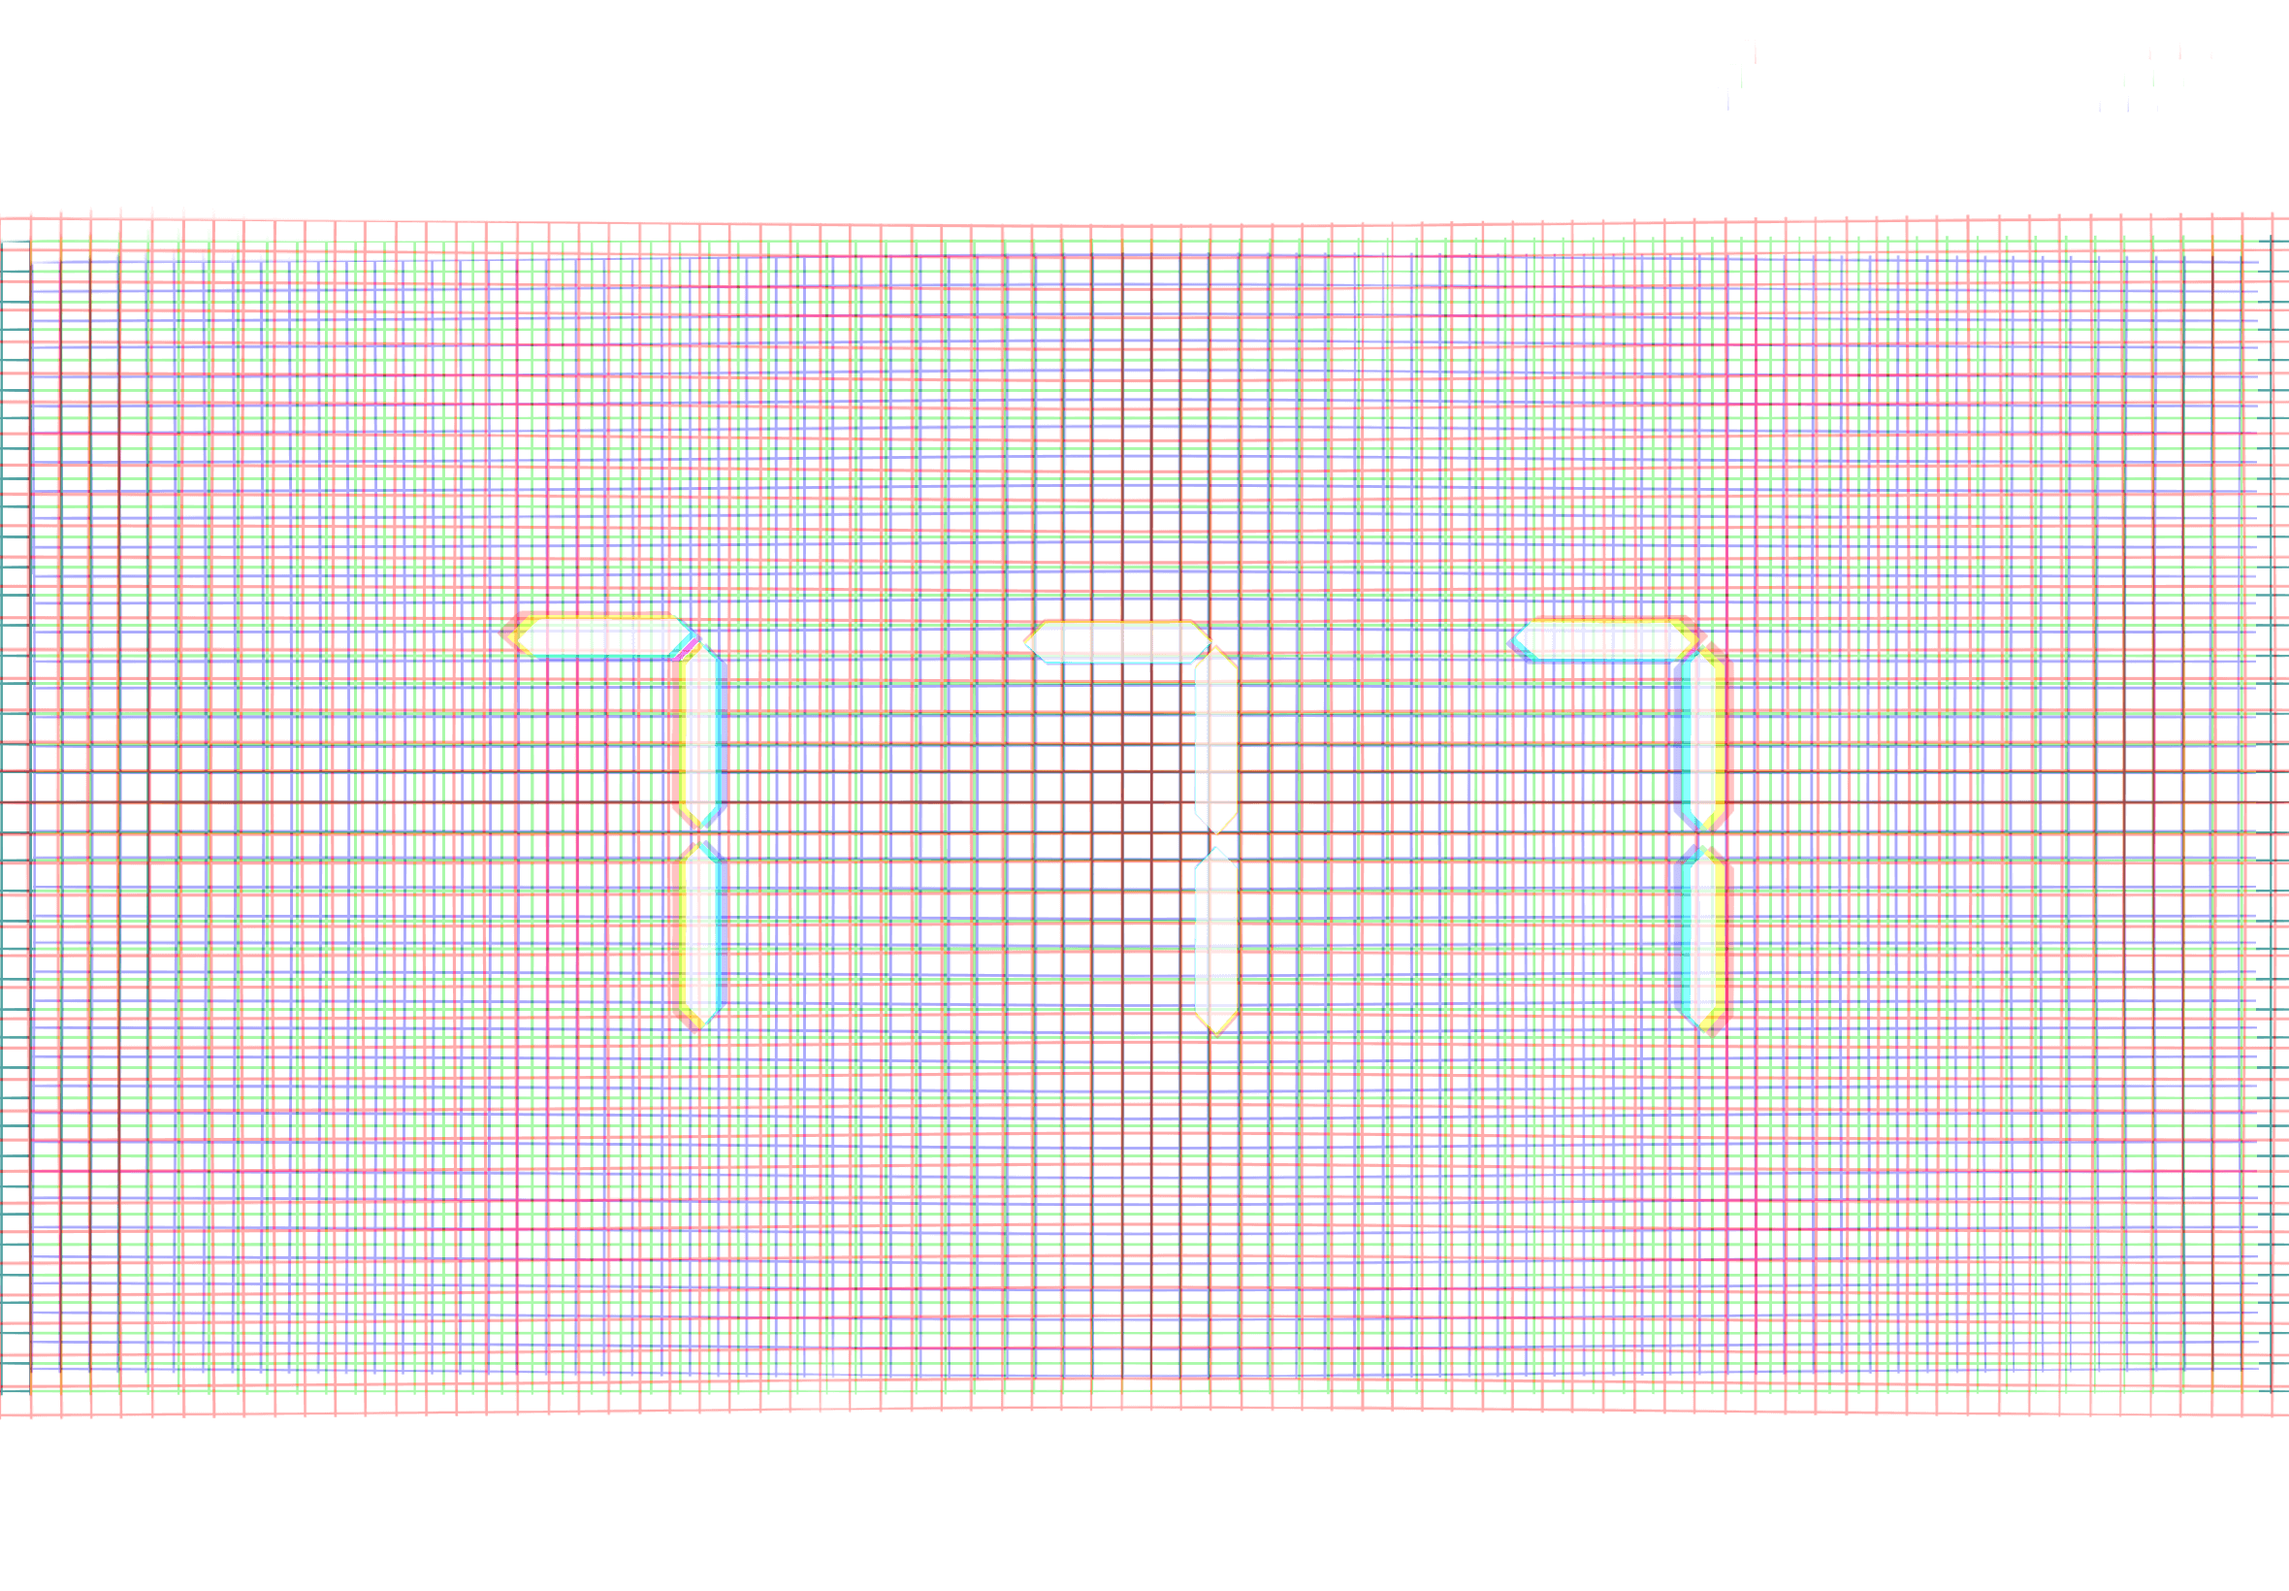
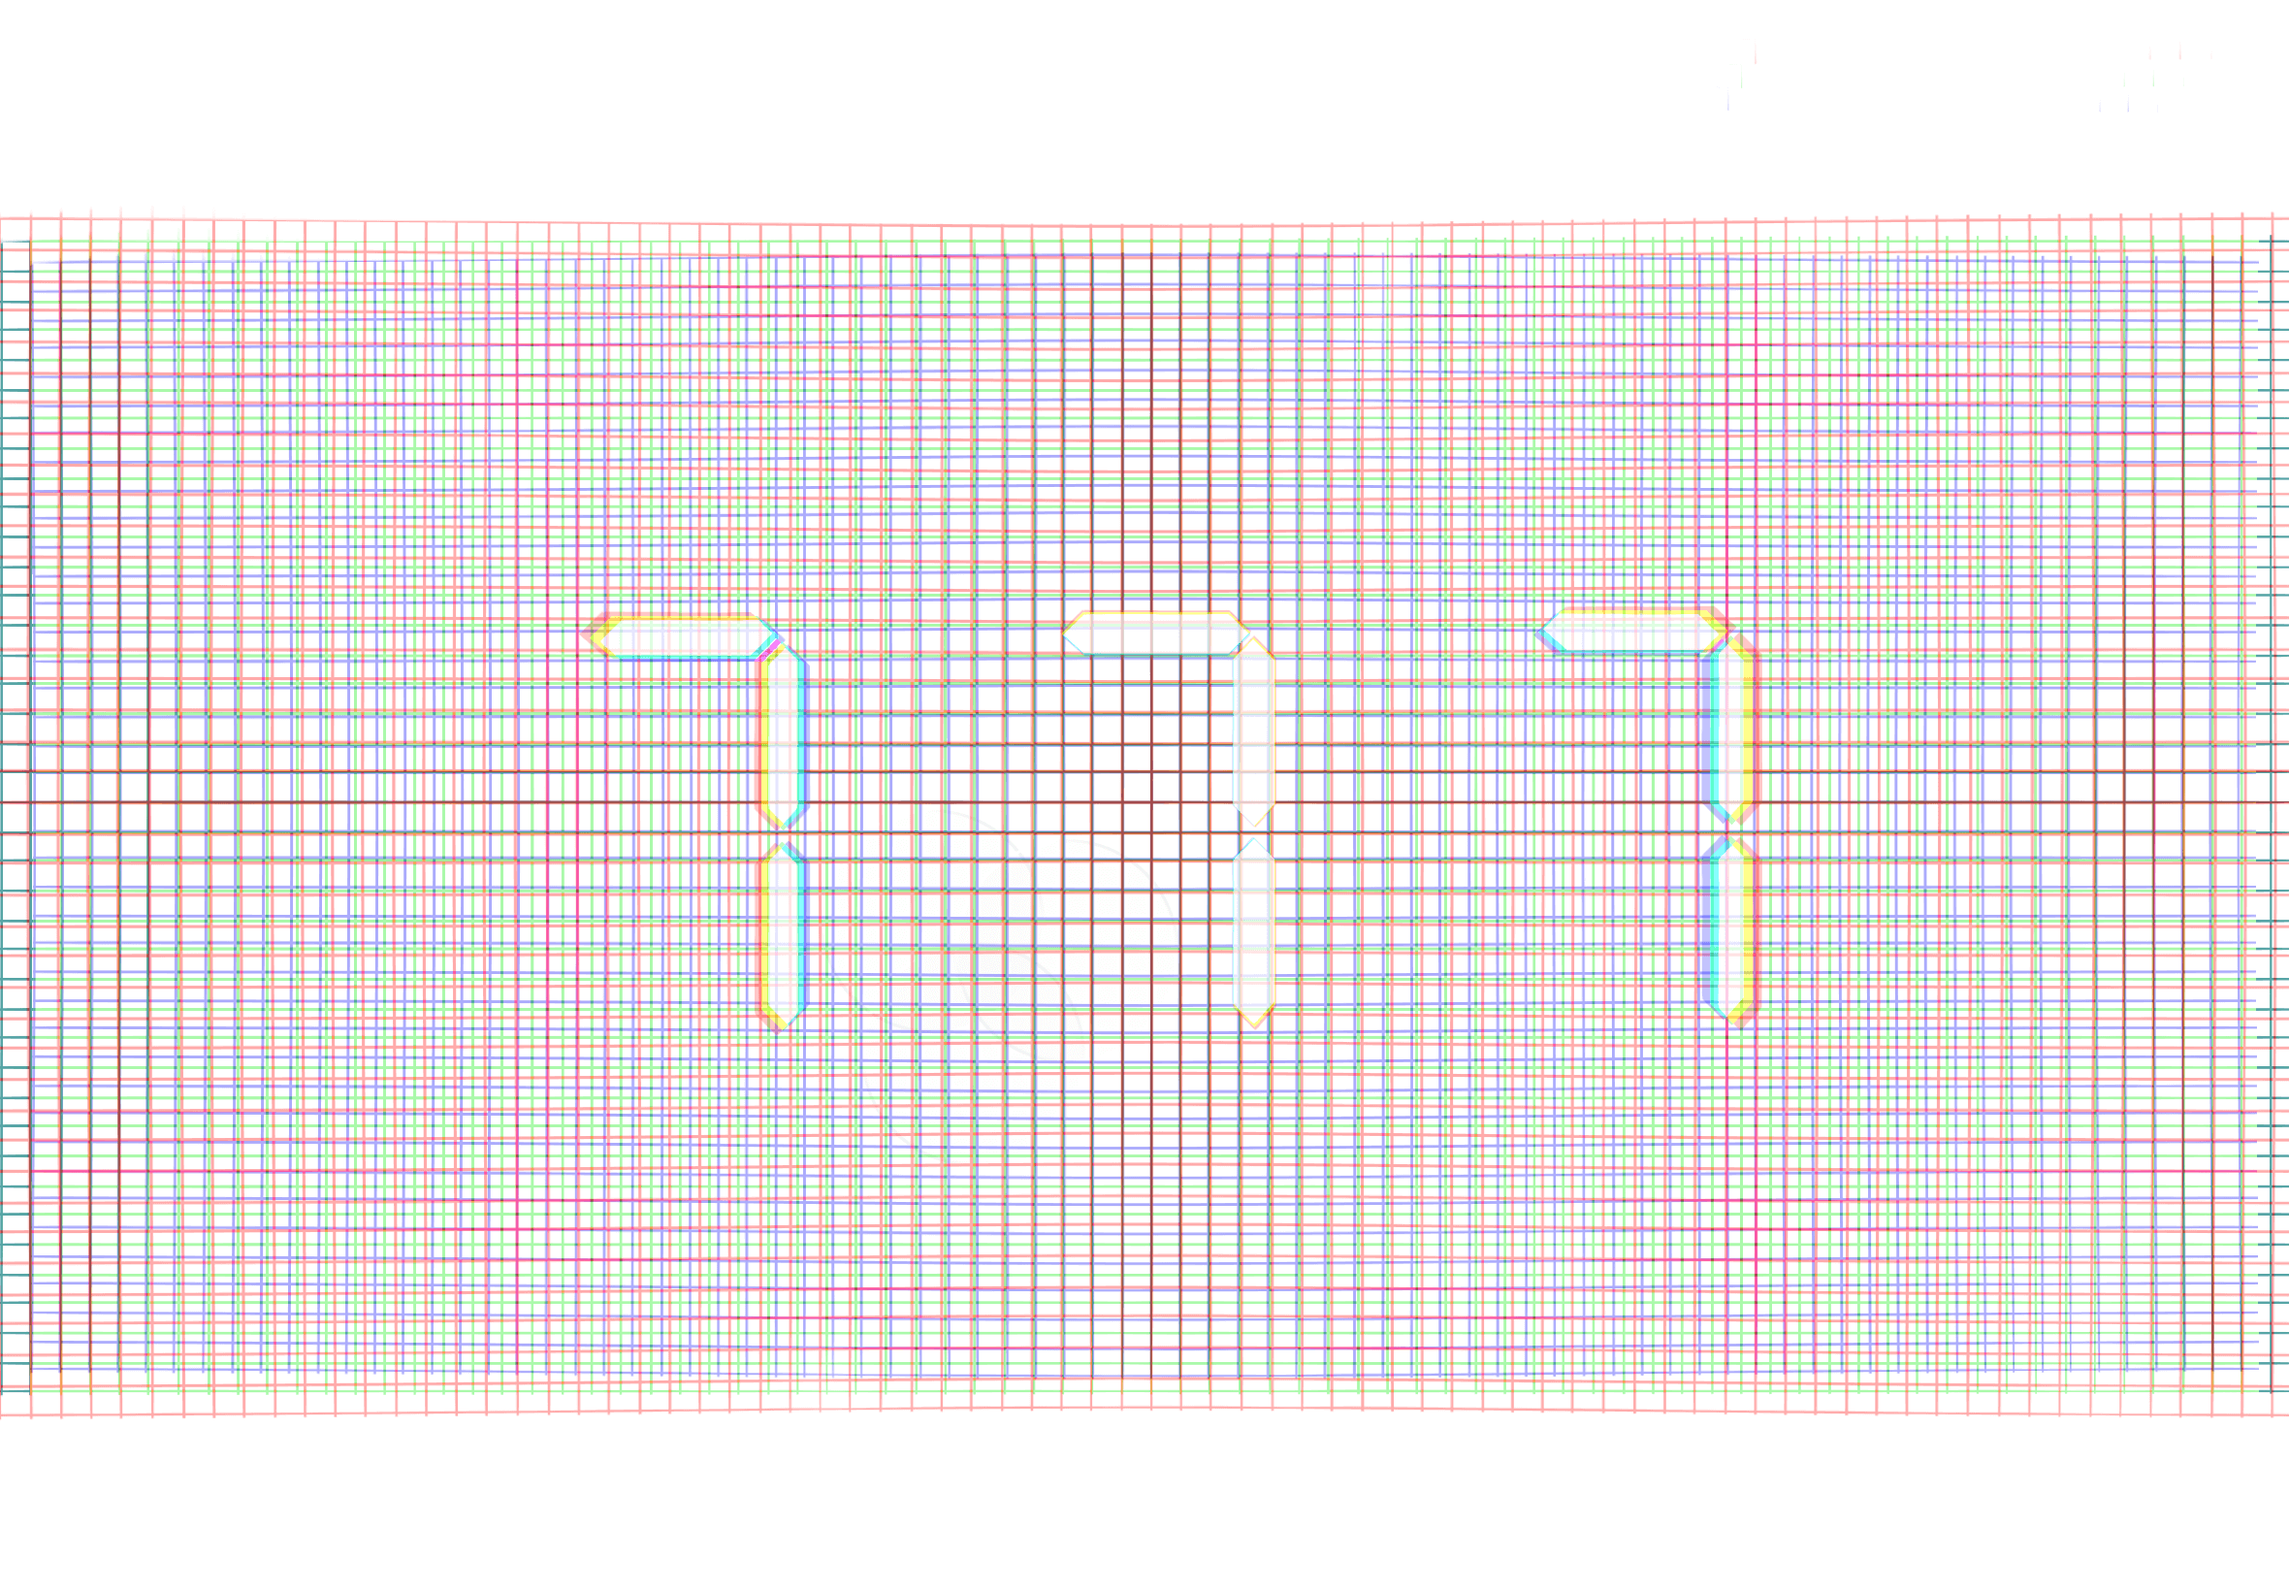
fix: update matrix png, add meta desc, fix css

Changed region(s): [[0.2165, 0.3732, 0.3712, 0.653], [0.6496, 0.3732, 0.7733, 0.653], [0.4331, 0.3732, 0.5568, 0.653]]

diff --git a/src/components/footer/footer.scss b/src/components/footer/footer.scss
@@ -1,5 +1,27 @@
 @import '../../utils/variables';
 
+.footer-bg {
+  position: absolute;
+  width: 100dvw;
+  top: 0;
+  left: 0;
+  height: 800px;
+  scale: 1.2;
+  overflow: hidden;
+
+  img {
+    width: 100%;
+    z-index: -1;
+    opacity: 0.5;
+    translate: -175px -100px;
+    clip-path: circle(150px at 50% 50%);
+    filter: invert(100%) contrast(100%);
+    animation: matrix-loop calc($golden-ratio-time / 8)
+      ease-out infinite;
+    margin-bottom: 20rem;
+  }
+}
+
 .footer {
   position: relative;
   width: 100%;
@@ -18,25 +40,13 @@
     opacity: 0;
   }
 
-  img {
-    position: absolute;
-    top: 0;
-    left: 0;
-    translate: 0 -100px;
-    height: 800px;
-    z-index: -1;
-    opacity: 0.5;
-    clip-path: circle(100px at 50% 50%);
-    scale: 1.3;
-  }
-
   &-mail {
     position: relative;
     width: 450px;
     display: flex;
     align-items: center;
     justify-content: space-between;
-    background-color: $primary-color;
+    background: transparent;
     border: 1px solid $highlight-color;
     cursor: pointer;
     z-index: 3;
@@ -80,14 +90,14 @@
       display: flex;
       align-items: center;
       justify-content: space-between;
-      background-color: rgba($highlight-color, 0.6);
+      background-color: rgba($primary-color, 0.5);
       scale: 0;
       transition: scale calc($golden-ratio-time / 8)
         ease-in-out;
       z-index: 1;
 
       p {
-        color: $primary-color;
+        color: $secondary-color;
         text-transform: none;
       }
     }
@@ -151,6 +161,23 @@
   }
 }
 
+@keyframes matrix-loop {
+  0% {
+    scale: 1.3;
+    filter: invert(0) contrast(100%);
+  }
+
+  50% {
+    scale: 1.2 1.1;
+    filter: invert(100%) contrast(150%);
+  }
+
+  100% {
+    scale: 1.3;
+    filter: invert(0) contrast(100%);
+  }
+}
+
 /* Smartphones (portrait and landscape) */
 @media only screen and (min-width: 320px) and (max-width: 480px) {
   .footer {
@@ -164,8 +191,12 @@
     }
 
     img {
-      width: 100dvw;
-      height: 400px;
+      opacity: 0.5;
+      width: 200px;
+      scale: 1;
+      filter: invert(100%) contrast(100%);
+      animation: none;
+      clip-path: circle(100px at 50% 50%);
     }
 
     &-mail {

diff --git a/src/components/footer/Footer.tsx b/src/components/footer/Footer.tsx
@@ -36,7 +36,7 @@ const Footer = () => {
   }, [isInViewport]);
 
   useEffect(() => {
-    if (matrixRef.current) {
+    if (matrixRef.current && !isMobile && isInViewport) {
       const xSetted = Math.round(
         (clientX / window.innerWidth) * 100
       );
@@ -45,7 +45,7 @@ const Footer = () => {
       );
       matrixRef.current.animate(
         {
-          clipPath: `circle(100px at ${xSetted}% ${ySetted}%)`
+          clipPath: `circle(150px at ${xSetted}% ${ySetted}%)`
         },
         { duration: 1618 * 2, fill: 'forwards' }
       );
@@ -66,7 +66,7 @@ const Footer = () => {
     if (matrixRef.current) {
       matrixRef.current.animate(
         {
-          clipPath: `circle(5000px at 0 0)`
+          clipPath: `circle(2000px at 50% 50%)`
         },
         { duration: 1618 * 2, fill: 'forwards' }
       );
@@ -77,7 +77,7 @@ const Footer = () => {
     if (matrixRef.current) {
       matrixRef.current.animate(
         {
-          clipPath: `circle(100px at 0 0)`
+          clipPath: `circle(150px at 0 0)`
         },
         { duration: 1618 * 2, fill: 'forwards' }
       );

diff --git a/index.html b/index.html
@@ -13,7 +13,7 @@
     />
     <meta
       name="description"
-      content="Facundo Ledesma's developer and design portfolio."
+      content="Developer and UI/UX designer specializing in web applications."
     />
     <title>Facundo Ledesma | Developer & Designer</title>
   </head>

diff --git a/src/components/hero/hero.scss b/src/components/hero/hero.scss
@@ -31,7 +31,7 @@
 .hero {
   position: relative;
   width: 100%;
-  height: 620px;
+  height: 650px;
   position: relative;
   display: none;
   flex-direction: column;
